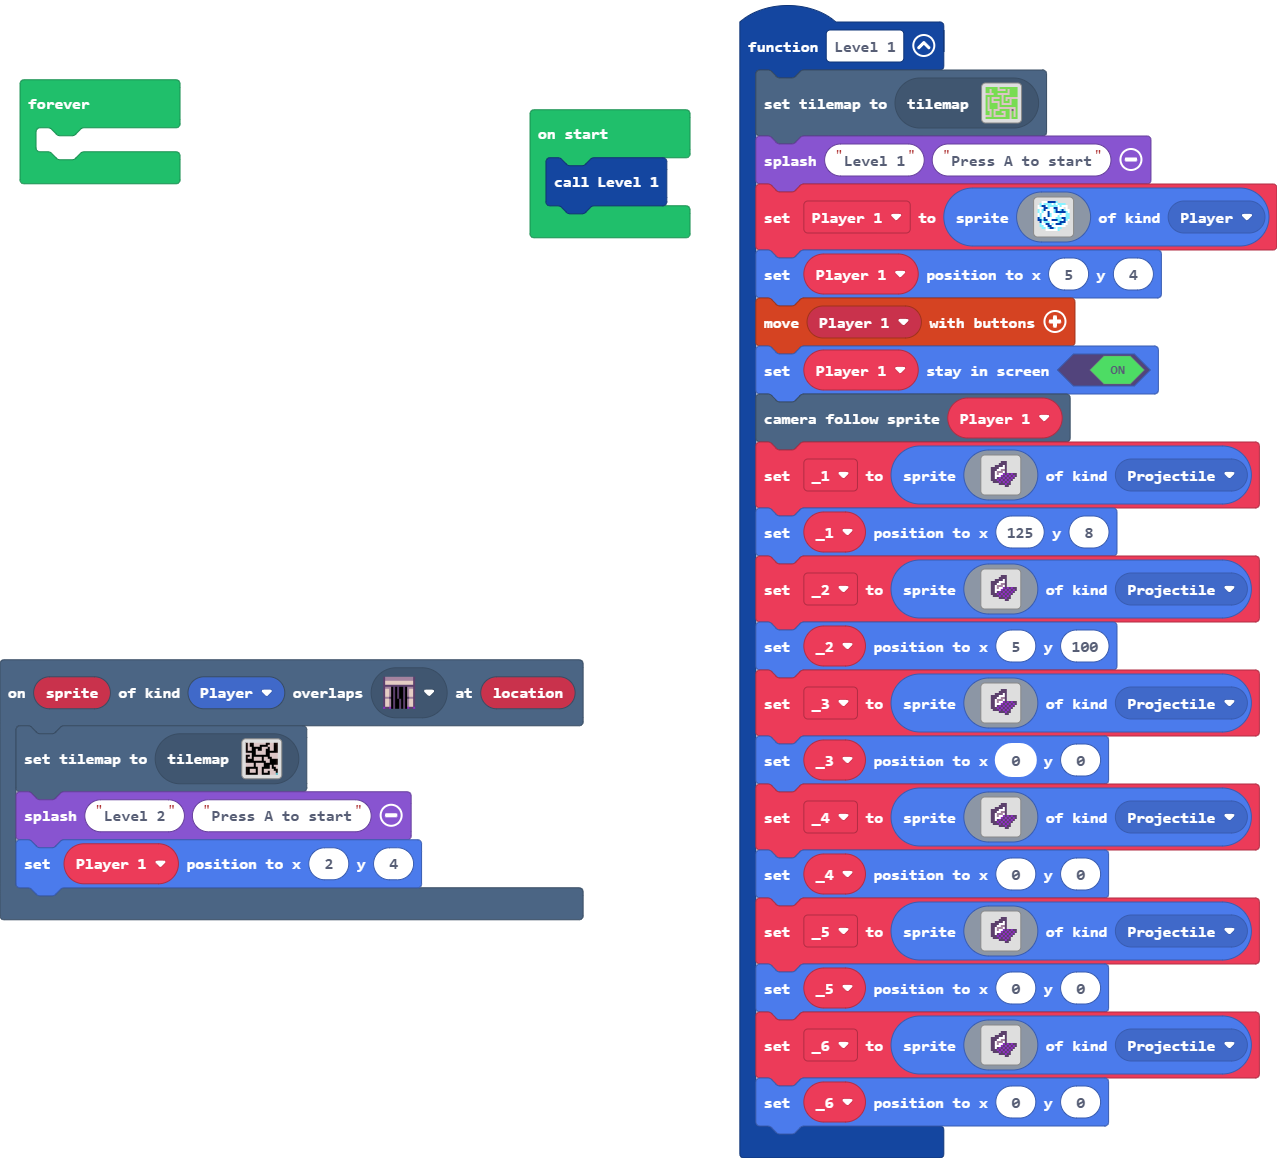
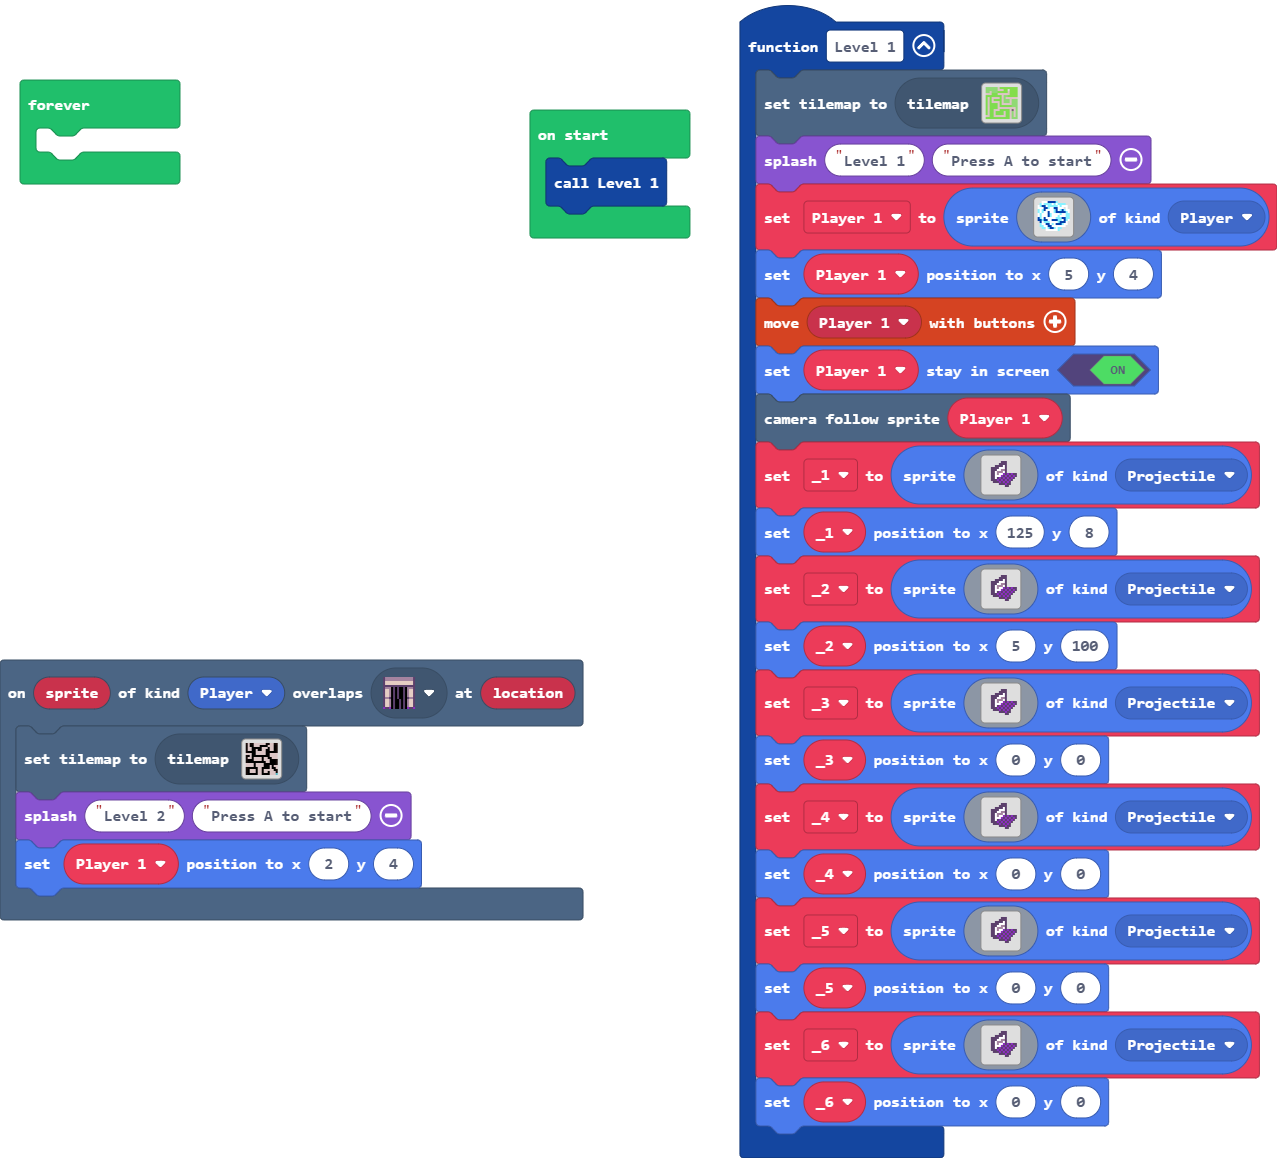
Update pxt.json, main.blocks, main.ts, tilemap.g.jres, tilemap.g.ts

diff --git a/main.ts b/main.ts
@@ -28,127 +28,35 @@ function Level_1 () {
     controller.moveSprite(Player_1)
     Player_1.setStayInScreen(true)
     scene.cameraFollowSprite(Player_1)
-    _1 = sprites.create(img`
-        . . . . . . . . . . . . . . . . 
-        . . . . . . . . c c c . . . . . 
-        . . . . . . . c c c c . . . . . 
-        . . . . . c c c c 1 c . . . . . 
-        . . . c c c c 1 1 1 c . . . . . 
-        . . . c c c 1 1 b b c . . . . . 
-        . . . c c 1 b b b 1 c . . . . . 
-        . . . c c 1 b 1 1 a c a c a c c 
-        . . . c c 1 1 1 a c a c a c a c 
-        . . . c c 1 c a c a c a c a c . 
-        . . . c c c a c a c a c a c . . 
-        . . . . c c c a c a c a c . . . 
-        . . . . . . . c c c a c c . . . 
-        . . . . . . . . . . c c . . . . 
-        . . . . . . . . . . . . . . . . 
-        . . . . . . . . . . . . . . . . 
-        `, SpriteKind.Projectile)
-    _1.setPosition(125, 8)
-    _2 = sprites.create(img`
-        . . . . . . . . . . . . . . . . 
-        . . . . . . . . c c c . . . . . 
-        . . . . . . . c c c c . . . . . 
-        . . . . . c c c c 1 c . . . . . 
-        . . . c c c c 1 1 1 c . . . . . 
-        . . . c c c 1 1 b b c . . . . . 
-        . . . c c 1 b b b 1 c . . . . . 
-        . . . c c 1 b 1 1 a c a c a c c 
-        . . . c c 1 1 1 a c a c a c a c 
-        . . . c c 1 c a c a c a c a c . 
-        . . . c c c a c a c a c a c . . 
-        . . . . c c c a c a c a c . . . 
-        . . . . . . . c c c a c c . . . 
-        . . . . . . . . . . c c . . . . 
-        . . . . . . . . . . . . . . . . 
-        . . . . . . . . . . . . . . . . 
-        `, SpriteKind.Projectile)
-    _2.setPosition(5, 100)
-    _3 = sprites.create(img`
-        . . . . . . . . . . . . . . . . 
-        . . . . . . . . c c c . . . . . 
-        . . . . . . . c c c c . . . . . 
-        . . . . . c c c c 1 c . . . . . 
-        . . . c c c c 1 1 1 c . . . . . 
-        . . . c c c 1 1 b b c . . . . . 
-        . . . c c 1 b b b 1 c . . . . . 
-        . . . c c 1 b 1 1 a c a c a c c 
-        . . . c c 1 1 1 a c a c a c a c 
-        . . . c c 1 c a c a c a c a c . 
-        . . . c c c a c a c a c a c . . 
-        . . . . c c c a c a c a c . . . 
-        . . . . . . . c c c a c c . . . 
-        . . . . . . . . . . c c . . . . 
-        . . . . . . . . . . . . . . . . 
-        . . . . . . . . . . . . . . . . 
-        `, SpriteKind.Projectile)
-    _3.setPosition(0, 0)
-    _4 = sprites.create(img`
-        . . . . . . . . . . . . . . . . 
-        . . . . . . . . c c c . . . . . 
-        . . . . . . . c c c c . . . . . 
-        . . . . . c c c c 1 c . . . . . 
-        . . . c c c c 1 1 1 c . . . . . 
-        . . . c c c 1 1 b b c . . . . . 
-        . . . c c 1 b b b 1 c . . . . . 
-        . . . c c 1 b 1 1 a c a c a c c 
-        . . . c c 1 1 1 a c a c a c a c 
-        . . . c c 1 c a c a c a c a c . 
-        . . . c c c a c a c a c a c . . 
-        . . . . c c c a c a c a c . . . 
-        . . . . . . . c c c a c c . . . 
-        . . . . . . . . . . c c . . . . 
-        . . . . . . . . . . . . . . . . 
-        . . . . . . . . . . . . . . . . 
-        `, SpriteKind.Projectile)
-    _4.setPosition(0, 0)
-    _5 = sprites.create(img`
-        . . . . . . . . . . . . . . . . 
-        . . . . . . . . c c c . . . . . 
-        . . . . . . . c c c c . . . . . 
-        . . . . . c c c c 1 c . . . . . 
-        . . . c c c c 1 1 1 c . . . . . 
-        . . . c c c 1 1 b b c . . . . . 
-        . . . c c 1 b b b 1 c . . . . . 
-        . . . c c 1 b 1 1 a c a c a c c 
-        . . . c c 1 1 1 a c a c a c a c 
-        . . . c c 1 c a c a c a c a c . 
-        . . . c c c a c a c a c a c . . 
-        . . . . c c c a c a c a c . . . 
-        . . . . . . . c c c a c c . . . 
-        . . . . . . . . . . c c . . . . 
-        . . . . . . . . . . . . . . . . 
-        . . . . . . . . . . . . . . . . 
-        `, SpriteKind.Projectile)
-    _5.setPosition(0, 0)
-    _6 = sprites.create(img`
-        . . . . . . . . . . . . . . . . 
-        . . . . . . . . c c c . . . . . 
-        . . . . . . . c c c c . . . . . 
-        . . . . . c c c c 1 c . . . . . 
-        . . . c c c c 1 1 1 c . . . . . 
-        . . . c c c 1 1 b b c . . . . . 
-        . . . c c 1 b b b 1 c . . . . . 
-        . . . c c 1 b 1 1 a c a c a c c 
-        . . . c c 1 1 1 a c a c a c a c 
-        . . . c c 1 c a c a c a c a c . 
-        . . . c c c a c a c a c a c . . 
-        . . . . c c c a c a c a c . . . 
-        . . . . . . . c c c a c c . . . 
-        . . . . . . . . . . c c . . . . 
-        . . . . . . . . . . . . . . . . 
-        . . . . . . . . . . . . . . . . 
-        `, SpriteKind.Projectile)
-    _6.setPosition(0, 0)
+    myEnemy = sprites.create(img`
+        ........................
+        ........................
+        ........................
+        ........................
+        ..........ffff..........
+        ........ff1111ff........
+        .......fb111111bf.......
+        .......fd1111111f.......
+        ......fdd1111111df......
+        ......fddd111111df......
+        ......fdddddd111df......
+        ......fbddddbfd1df......
+        ......fcbbbdcfddbf......
+        .......fcbb11111f.......
+        ........fffff1b1f.......
+        ........fb111cfbf.......
+        ........ffb1b1ff........
+        ......f.fffbfbf.........
+        ......ffffffff..........
+        .......fffff............
+        ........................
+        ........................
+        ........................
+        ........................
+        `, SpriteKind.Enemy)
+    myEnemy.follow(Player_1)
 }
-let _6: Sprite = null
-let _5: Sprite = null
-let _4: Sprite = null
-let _3: Sprite = null
-let _2: Sprite = null
-let _1: Sprite = null
+let myEnemy: Sprite = null
 let Player_1: Sprite = null
 Level_1()
 forever(function () {

diff --git a/tilemap.g.ts b/tilemap.g.ts
@@ -4,6 +4,16 @@ namespace myTiles {
     export const transparency16 = image.ofBuffer(hex``);
     //% fixedInstance jres blockIdentity=images._tile
     export const tile1 = image.ofBuffer(hex``);
+    //% fixedInstance jres blockIdentity=images._tile
+    export const tile2 = image.ofBuffer(hex``);
+    //% fixedInstance jres blockIdentity=images._tile
+    export const tile3 = image.ofBuffer(hex``);
+    //% fixedInstance jres blockIdentity=images._tile
+    export const tile4 = image.ofBuffer(hex``);
+    //% fixedInstance jres blockIdentity=images._tile
+    export const tile6 = image.ofBuffer(hex``);
+    //% fixedInstance jres blockIdentity=images._tile
+    export const tile5 = image.ofBuffer(hex``);
 
     helpers._registerFactory("tilemap", function(name: string) {
         switch(helpers.stringTrim(name)) {
@@ -140,25 +150,6 @@ namespace myTiles {
 . . 2 2 2 . 2 2 . 2 2 . 2 2 2 . 
 . . . . . . 2 2 . . . . 2 2 2 . 
 `, [myTiles.transparency16,sprites.builtin.forestTiles10,sprites.builtin.forestTiles5,sprites.builtin.forestTiles13,sprites.builtin.forestTiles7,sprites.builtin.forestTiles6,sprites.builtin.forestTiles11,sprites.builtin.forestTiles14,sprites.builtin.forestTiles9,sprites.dungeon.floorLight0,sprites.dungeon.collectibleInsignia], TileScale.Sixteen);
-            case "level2":
-            case "level2":return tiles.createTilemap(hex`1000100003030303030301030303030303030303030301030303010202010302030303030303020303030303030303020303030301020201030301010101010203030303030303030303030301030303030303030301030102020203020301010201010103020301030303030203010302030303030203010101010302030303010303030302030303030103010101010203030303020303030301030303030303030303030103030303010102040202020201030301010301010103030303030105010303030203010303030101030301030103030302030203030303010303010301030102020302020202010103030103010303030303030303030303030301030303`, img`
-. . . . . . 2 . . . . . . . . . 
-. . 2 . . . 2 2 2 2 . 2 . . . . 
-. . 2 . . . . . . . . 2 . . . . 
-2 2 2 2 . . 2 2 2 2 2 2 . . . . 
-. . . . . . . . 2 . . . . . . . 
-. 2 . 2 2 2 2 . 2 . 2 2 2 2 2 2 
-. 2 . 2 . . . . 2 . 2 . 2 . . . 
-. 2 . 2 2 2 2 . 2 . . . 2 . . . 
-. 2 . . . . 2 . 2 2 2 2 2 . . . 
-. 2 . . . . 2 . . . . . . . . . 
-. 2 . . . . 2 2 2 2 2 2 2 2 2 . 
-. 2 2 . 2 2 2 . . . . . 2 . 2 . 
-. . 2 . 2 . . . 2 2 . . 2 . 2 . 
-. . 2 . 2 . . . . 2 . . 2 . 2 . 
-2 2 2 . 2 2 2 2 2 2 . . 2 . 2 . 
-. . . . . . . . . . . . 2 . . . 
-`, [myTiles.transparency16,sprites.dungeon.floorLight0,sprites.dungeon.floorLight5,sprites.skillmap.islandTile4,sprites.dungeon.floorLight4,sprites.dungeon.doorClosedNorth], TileScale.Sixteen);
             case "level9":
             case "level9":return tiles.createTilemap(hex`1000100000000000000000000000000000000000000000000000000000000000000000000000000000000000000000000000000000000000000000000000000000000000000000000000000000000000000000000000000000000000000000000000000000000000000000000000000000000000000000000000000000000000000000000000000000000000000000000000000000000000000000000000000000000000000000000000000000000000000000000000000000000000000000000000000000000000000000000000000000000000000000000000000000000000000000000000000000000000000000000000000000000000000000000000000000000000`, img`
 . . . . . . . . . . . . . . . . 
@@ -178,6 +169,25 @@ namespace myTiles {
 . . . . . . . . . . . . . . . . 
 . . . . . . . . . . . . . . . . 
 `, [myTiles.transparency16], TileScale.Sixteen);
+            case "level2":
+            case "level2":return tiles.createTilemap(hex`1000100006060606060601070707070707070707060606060606010202070700070707070606020606060707070707020707070701020205050501010101010207070707050505050505050501060607070707070501050102020205020601010201010105020501050505050206060602060606050205010101010502060606010606060502050505050105010101010206060605020505050501050505050505060606050105050505010102030202020201060501050502010105050505050104010605020505020505050501050501060106050205050205050505010505010601060102050502020202010105050106010605050505050505050505050501060606`, img`
+. . . . . . 2 . . . . . . . . . 
+. . . . . . 2 2 2 . . 2 . . . . 
+. . 2 . . . . . . . . 2 . . . . 
+2 2 2 . . . 2 2 2 2 2 2 . . . . 
+. . . . . . . . 2 . . . . . . . 
+. 2 . 2 2 2 2 . 2 . 2 2 2 2 2 2 
+. 2 . 2 . . . . 2 . . . 2 . . . 
+. 2 . 2 2 2 2 . 2 . . . 2 . . . 
+. 2 . . . . 2 . 2 2 2 2 2 . . . 
+. 2 . . . . 2 . . . . . . . . . 
+. 2 . . . . 2 2 2 2 2 2 2 2 2 . 
+. 2 . . 2 2 2 . . . . . 2 . 2 . 
+. 2 . . 2 . . . . 2 . . 2 . 2 . 
+. 2 . . 2 . . . . 2 . . 2 . 2 . 
+2 2 . . 2 2 2 2 2 2 . . 2 . 2 . 
+. . . . . . . . . . . . 2 . . . 
+`, [myTiles.transparency16,sprites.dungeon.floorLight0,sprites.dungeon.floorLight5,sprites.dungeon.floorLight4,sprites.dungeon.doorClosedNorth,sprites.castle.tileGrass1,sprites.castle.tileGrass2,sprites.castle.tileGrass3], TileScale.Sixteen);
         }
         return null;
     })
@@ -186,6 +196,16 @@ namespace myTiles {
         switch(helpers.stringTrim(name)) {
             case "transparency16":return transparency16;
             case "tile1":return tile1;
+            case "myTile":
+            case "tile2":return tile2;
+            case "myTile0":
+            case "tile3":return tile3;
+            case "myTile1":
+            case "tile4":return tile4;
+            case "myTile3":
+            case "tile6":return tile6;
+            case "myTile2":
+            case "tile5":return tile5;
         }
         return null;
     })
